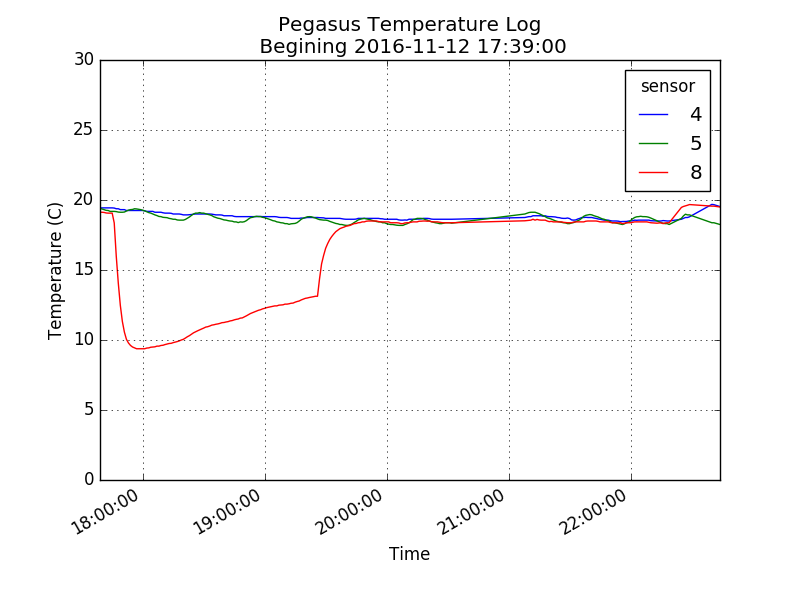
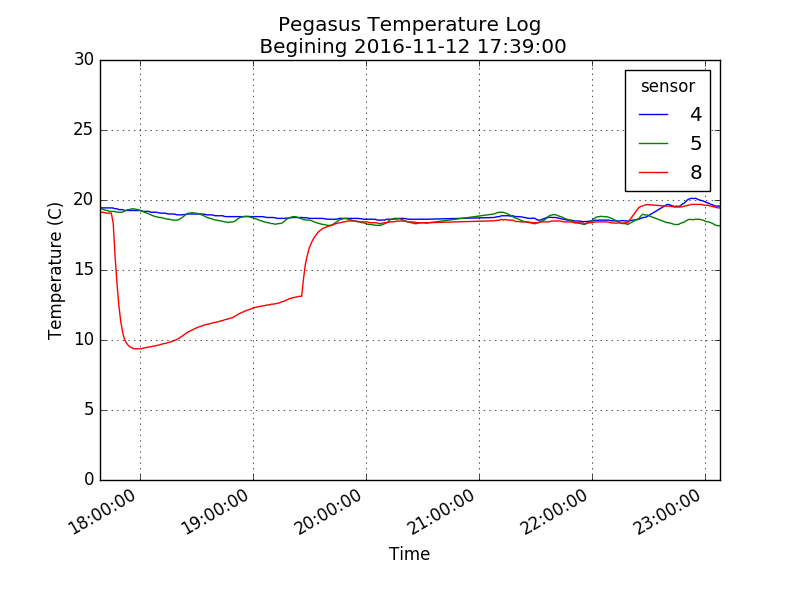
Added Entries to log

diff --git a/PyScheduler.py b/PyScheduler.py
@@ -1,0 +1,159 @@
+'''
+PyScheduler.py
+
+Notes:
+1. Compatible with python v2 & v3
+2. No testing of wifi on/off
+3. Issues with ssh key identification
+
+as of nov2016.12
+'''
+#---Load Modules
+from __future__ import print_function
+import os
+import glob
+import time
+import numpy as np
+import matplotlib as mpl
+mpl.use('Agg')
+import matplotlib.pyplot as plt
+import pandas as pd
+from datetime import datetime 
+import time
+import schedule
+import subprocess
+import html5lib
+
+
+#---Assign directories & filename
+log_dir = '/home/pi/PegasusLogs/Temperature'
+log_file = 'Temperature.log'
+log = os.path.join(log_dir,log_file)
+
+base_dir='/sys/bus/w1/devices/'
+device_folders = glob.glob(base_dir + '28*')
+print(device_folders)
+
+#---Sensor ID's
+device_table={#determined by physical check of each labelled probe
+"0416807DF3FF" : "01",
+"05168031B4FF" : "02",
+"0516802F91FF" : "03",
+"041684199FFF" : "04",
+"0416841B3BFF" : "05",
+"0516858720FF" : "06",
+"0516858803FF" : "07",
+"0416807FF4FF" : "08"}
+
+#---Set Logging Parameters
+sample_rate = 10   #seconds
+logger_rate = 60  #seconds
+
+#---Mandatory when using multiple sensors
+os.system('modprobe w1-gpio') 
+time.sleep(2.0)
+os.system('modprobe w1-therm')
+time.sleep(2.0)
+
+#---Sensor Communication Functions 
+def sort_key(address): # used by setup_read to sort the devices
+    return device_table[address.upper()]
+
+def setup_read():
+    devices = []
+    for d in device_folders:
+        devadd = d[-12:].upper()
+        print("Reading From Device: ", devadd)
+        if devadd in device_table:
+            devices.append(devadd)
+    return(sorted(devices, key=sort_key))
+
+def read_temp_raw(device):
+    filename = base_dir + '28-' + device.lower() + '/w1_slave'
+    f = open(filename, 'r')
+    lines = f.readlines()
+    f.close()
+    return lines
+
+def read_temp(d):
+    lines = read_temp_raw(d)
+    while lines[0].strip()[-3:] != 'YES':
+        time.sleep(0.2)
+        read_temp_raw(d)
+    equals_pos = lines[1].find('t=')
+    if equals_pos != -1:
+        temp_string = lines[1][equals_pos+2:]
+        temp_c = float(temp_string)/1000.0
+        temp_f = 32.0 + 1.8 * temp_c
+        return temp_c, temp_f
+
+devices = setup_read()
+'''
+print("  # address\n---------------")
+for d in devices:
+    print(" " + device_table[d.upper()] + " " + d)
+print(" ",end="")
+
+for d in devices:
+    print('{:s}'.format(" " + device_table[d.upper()]+ " |"),end="")
+print("\n"+len(devices)*"-----")
+'''
+
+#---Delete all scheduled jobs
+schedule.clear()
+
+#---Sampling funciton: Record data to log  
+def job1():
+    dtm  = datetime.now().strftime(format = '%d.%Y.%m %H:%M:%S')
+    with open(log,'a') as f:
+        for d in devices:
+            temps = read_temp(d)
+            #print('{:4.1f}|'.format(temps[0]),end="")
+            d_id = str(device_table[d.upper()])
+            f.write(dtm + '\t' +d_id + '\t'+ '{}'.format(temps[0])+ '\n')   
+
+
+#---Logging funciton: Create Plot, Push updates to remote    
+def job2():
+    print("Updating Github")
+    os.system('/home/pi/UpdateGit.sh')
+    print("Creating Plots")
+    url = 'https://raw.githubusercontent.com/slawler/PegasusLogs/master/Temperature/Temperature.log'
+    cols = ['time','sensor', 'obs']
+    df= pd.read_csv(url, header = None, sep = '\t' ,names = cols)
+    df= df.set_index(pd.to_datetime(df['time'],format = '%d.%Y.%m %H:%M:%S'))
+    df.drop(labels='time',axis=1, inplace= True)
+    df = df.groupby([pd.TimeGrouper('{}min'.format(1)), 'sensor']).agg({'obs': np.mean})
+    df = df.unstack()
+    df.columns = df.columns.droplevel()
+        
+
+    #---Plot data from most recent log
+    plt.ioff()
+    fig = df.plot()
+    plt.title('Pegasus Temperature Log'+ '\n Begining {}'.format(df.index[0]))
+    plt.ylabel('Temperature (C)')
+    plt.xlabel('Time')
+    plt.grid(True)
+    plt.ylim((0,30))
+    plt.savefig('/home/pi/PegasusLogs/Temperature/temp.png')
+    plt.close()
+    return('') 
+
+#---Initialize Scheduler to call jobs
+schedule.every(sample_rate).seconds.do(job1)
+schedule.every(logger_rate).seconds.do(job2)
+
+#---Run Jobs
+while True:
+    try:
+        schedule.run_pending()
+        time.sleep(1)
+        print(" ",end="\r")
+
+        
+    except KeyboardInterrupt:
+        print('Process Terminated')
+        break
+    
+
